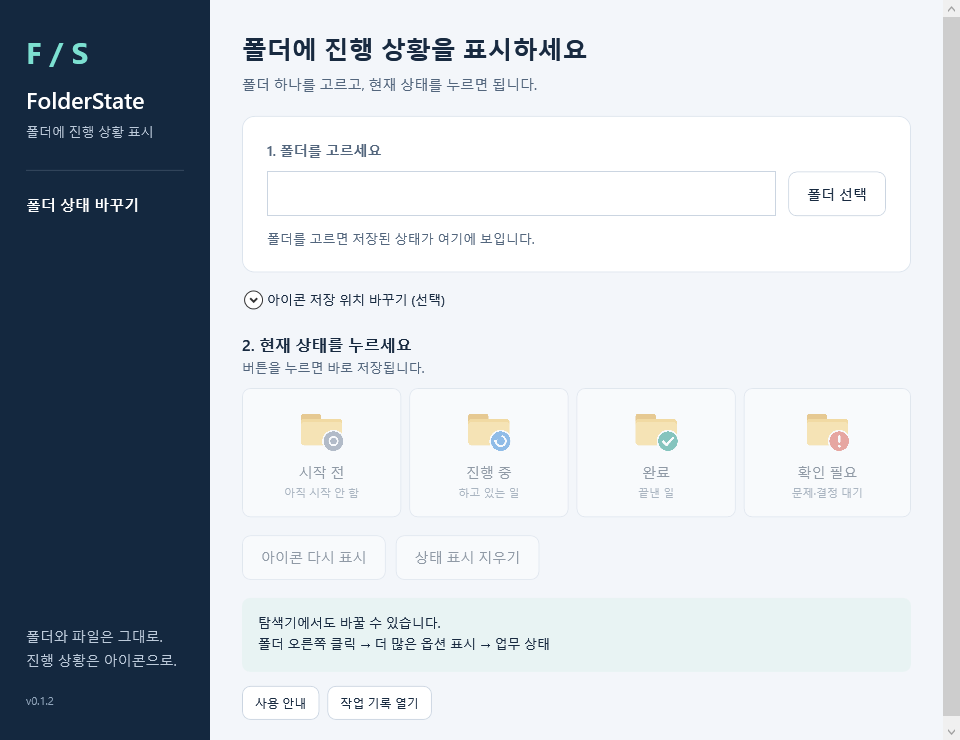
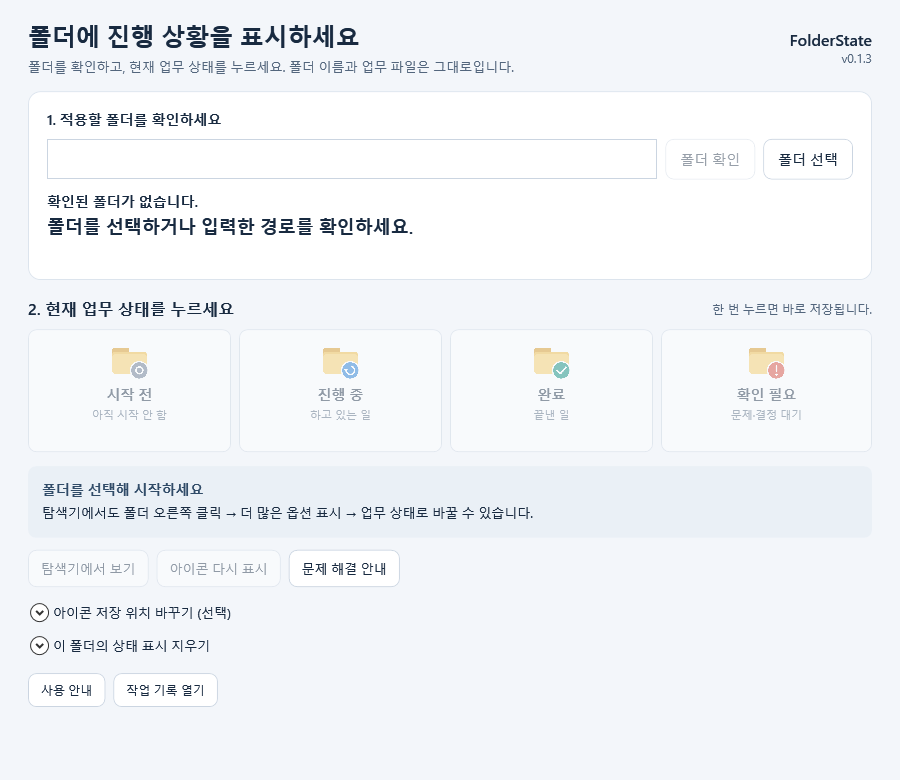
Publish current tool guides and organize release records
Align FolderState 0.1.3 RC1 and Excel RC10 downloads, usage guidance and verification records. Preserve original Excel inputs in an archive and keep generated test copies out of Git.

diff --git a/tools/ExcelSmartListCompare/docs/CODEX_HANDOFF.md b/tools/ExcelSmartListCompare/docs/CODEX_HANDOFF.md
@@ -1,44 +1,29 @@
 # Windows 빌드·실기 검증 인계
 
-상태: RC9 소스 보완·재검증 진행, 출시 보류 · 2026-09-17. [RC9 안정성 기록](RC9_STABILITY_REPORT.md)에 새 변경·실행 결과·남은 조건을 기록한다. [RC8 검증 기록](RC8_COMPLETION_REPORT.md)은 과거 바이너리의 실패 증거로 보존한다. 오류·취소 신호 주입 PASS는 실제 키 입력 취소 PASS가 아니다.
+상태: **RC10 게시 완료 · 전체 인수 NOT_MET 유지** · 2026-09-20
 
-## RC9 재개 순서
+## 현재 기준
 
-1. 현재 작업 저장소는 바깥 `Workspace`다. 안쪽의 `ExcelE2E-20260914/upstream`은 이전 시험 기록으로 남아 있으므로 새 소스와 혼동하지 않는다.
-2. `tests/Invoke-BoundedTest.ps1`로 시험을 하나씩 실행한다. CPU·메모리 사전 기준 초과나 기존 Excel이 있으면 시작하지 않는다. 원시 로그는 로컬에만 둔다.
-3. 새 XLAM 제작 전 개발용 VBA 접근 승인 또는 이미 허용된 개발 환경을 확인한다. 제품 사용자의 매크로 보안은 바꾸지 않는다.
-4. 새 바이너리를 설치한 소유 Excel에서 기존 통합 검사와 `windows-cancellation-transaction.ps1`을 실행한다. 후자는 메모리 안에서만 계측하고 소스·Saved 상태·파일 해시를 복원한다.
-5. `windows-public-matrix.ps1`은 각 경우 직후 원본·이전 결과를 닫도록 바뀌었다. 동시 문서 상한과 셀 주소를 실제로 확인한다.
-6. 실제 메뉴·Esc와 대화형 설치는 화면 조작 도구가 있는 세션에서 새 파일로 확인한다. 입력 도구 호출 시간만으로 키 수신을 주장하지 않는다.
-7. RC9 포장은 `--installer-version 0.2.0-rc.9`, 단일 EXE는 `--engine-version 0.2.0-rc.9`를 명시한다. 새 `RC9-Payload.json`은 실제 후보를 제작·대조한 뒤 작성한다. RC8 고정 입력을 덮어쓰지 않는다. 실제 취소 PASS 요구는 유지한다.
+- 제품 안내: [RC10 설치·사용](RC10_USER_GUIDE.md)
+- 배포 파일·해시·게시 확인: [RC10 게시 기록](RC10_PUBLICATION_20260920.md)
+- 실제 기능·화면 시험: [사용성 검증](USABILITY_RC10_REPORT.md)
+- 설치·재시작·복원·취소의 판정: [전체 흐름 기록](RC10_END_TO_END_REPORT.md)
+- 배포 결정: [ADR-0017](ADR-0017-RC10-publication.md), [고정한 검증 요약](../evidence/rc10/validation.json)
 
-## 후속 문구 교정 · 2026-09-17
+현재 소스는 이 저장소의 tools/ExcelSmartListCompare/src입니다. 로컬 ExcelE2E-* 폴더는 과거 시험 사본이며 현재 유지보수 소스가 아닙니다. 처음 받은 지시와 소스 ZIP은 [원본 보존 폴더](../archive/README.md)에 있습니다.
 
-Excel 화면·결과표·사용 안내와 설치·제거 문장을 한국어로 다듬었습니다. 표시용 문자열과 결과표 두 행의 높이를 바꾸었으며 비교·설치 기능은 유지합니다. 새 소스의 Python 검사와 설치기 컴파일 확인은 [문구 검수 기록](KOREAN_WORDING_REVIEW.md)을 따릅니다. **새 XLAM과 배포용 EXE는 만들지 않았습니다.** `RC8-Payload.json`과 기존 시험 파일도 갱신하지 않았습니다. 현재 소스와 과거 고정 입력의 해시가 달라지는 것은 의도된 상태이며, 새 파일을 제작·실행 검증하기 전에 고정 해시만 바꾸면 안 됩니다.
+RC10의 XLAM은 실제 기능·UI 시험과 대조한 고정 파일입니다. 사용자 설치 패키지, 개발 소스, 검증 자료를 분리해 게시했습니다. 게시 성공을 설치 수명주기·실제 처리 중 취소·상태표시줄 형식 복원의 통과로 해석하지 않습니다. RC8·RC9의 기록은 당시 파일의 근거로 보존합니다.
 
-결과 요약의 `목록 남은 항목` 등 새 문구에 맞춰 실행 검사의 기대값을 바꿨지만 해당 Excel 검사를 이번에 실행한 것은 아닙니다. 승인된 개발 환경에서 XLAM 제작 후 결과표·안내 창의 줄바꿈과 실제 취소·설치·제거 검사를 이어가세요.
+## 후속 작업 순서
 
-## 변경과 근거
+1. [제품 명세](../../../docs/tools/excel-list-compare/specification.md), [인수 기준](ACCEPTANCE_TESTS.md), 최신 검증 판정을 읽고 이번에 확인할 조건을 고릅니다.
+2. UTF-8 VBA를 수정했다면 export_ascii.py로 가져오기용 소스를 동기화하고 Python 회귀를 실행합니다. 정적 검사와 실제 Excel 검사는 별도로 기록합니다.
+3. 새로운 XLAM을 제작할 때는 이미 허용된 개발 환경 또는 별도로 승인된 개발 권한을 사용합니다. 제품 사용자의 보안 설정을 바꾸지 않습니다.
+4. 시험 대상 해시를 고정하고 직렬화 VBA·RibbonX를 소스와 대조합니다. 동일 바이트로 기능·표시·취소·수명주기를 확인합니다.
+5. Invoke-IsolatedExcelCandidate.ps1의 소유 프로세스·자원·기존 설치 사전 검사를 따릅니다. 사용자 Excel이나 문서를 종료하지 않으며 원시 기록은 artifacts 아래에만 둡니다.
+6. 아직 확인하지 못한 실제 처리 중 취소, 상태표시줄 형식 복원, 단일 EXE·새 설치 수명주기는 결과를 확인한 뒤에만 판정을 갱신합니다. 도구 실패와 제품 실패, 소유 프로세스 정리와 정상 종료를 구분합니다.
+7. 새 파일은 RC10의 고정 입력·배포 자산을 덮어쓰지 않고 새 버전·별도 경로로 제작합니다. 사용자 안내와 검증 자료를 나누고 소스·파일 해시·실행 결과·게시 결정을 연결합니다.
 
-RC7의 메뉴 구성은 유지한다. `getContent`는 메뉴를 열 때마다 현재 첫 번째 목록으로 내용을 만든다. RC8은 [실제 실패 기록](UNLOCKED_UI_REPORT.md)에 따라 오류 18 전달, 체크포인트의 취소 처리 재설정, 기본 상태표시줄 복원과 설치 폴더 CMD 제거 실행을 보완했다. [ADR-0010](ADR-0010-Cancellation-and-removal.md)에 근거와 한계를 기록한다. 최초 GUI 제거 접근 거부는 재현되지 않았으며 원인이 확정된 것으로 표시하지 않는다.
+## 확인 범위
 
-- 선택 전체를 한 목록으로 담고 다음 선택을 비교한다. 가시 값·중복 개수·텍스트 앞자리 0을 보존하며 원본과 이전 결과를 덮어쓰지 않는다.
-- 같은 Excel 프로세스의 메모리 스냅샷을 공유한다. 모드 선택·두 열 자동 분할·전역 단축키·상주 프로세스를 추가하지 않는다.
-- 설치 엔진은 Excel을 시작하지 않고 자기 LocalAppData 파일과 HKCU 등록을 관리한다. 조직 정책·AllSigned·외부 파일·알 수 없는 설치 기록은 보존한다.
-- 설치 폴더의 CMD는 새 임시 복사본으로 실행 제어를 넘겨 자기 삭제 후에도 엔진 종료 코드를 반환한다. 복사본에는 업무 데이터가 없으며 TEMP에 남을 수 있다.
-
-## 재검증 절차
-
-1. 원래 명세, README, [추가 도구 개발 기준](../../../docs/policies/tools.md), 관련 ADR을 읽는다.
-2. VBA UTF-8 소스를 수정하고 `python tools/ExcelSmartListCompare/tests/export_ascii.py`로 ASCII 가져오기 파일을 동기화한다.
-3. Python 참조·실행기 검사와 실제 Excel 검사를 구분한다. `windows-context-menu-content.ps1`은 정상 시작, 8종 메뉴 내용, 창 전환과 비교를 검사하지만 실제 메뉴 클릭 증거가 아니다.
-4. 승인된 개발 환경에서만 XLAM을 제작한다. 임시 VBA 접근 허용이 승인된 경우에도 Excel 종료 후 시작 전 상태를 확인한다. 설치 사용자에게 VBA 프로젝트 접근을 요구하지 않는다.
-5. 실제 저장 파일의 VBA·RibbonX를 원본과 대조하고 같은 해시로 취소·자동 로드·재설치·제거를 검증한다. `windows-cancellation-propagation.ps1`과 `windows-status-checkpoint.ps1`은 소유한 개발 Excel 세션에서 메모리 안에만 검사 코드를 넣으며, 호스트가 원문·개발 권한·종료 후 파일 해시를 확인해야 한다.
-6. `windows-onefile.ps1`은 설치·실패 복구·업데이트·제거·특수 경로·설치 폴더 CMD 자기 삭제를 검증한다. 기존 설치나 Excel이 있으면 실행하지 않는다. 시험 호스트 충돌과 제품 오류를 구분하고 분할 실행 시 그 사실을 기록한다.
-7. 설치기 함수의 격리 회귀 23개와 신뢰 위치 23개는 실제 설치 수명주기와 별도로 기록한다. 업무 Excel을 강제 종료하지 않는다. 빌드 소유 프로세스만 별도 정리했다면 정상 종료로 바꾸어 기록하지 않는다.
-8. RC8 포장은 `package-excel-wording-release.py --installer-version 0.2.0-rc.8`을 사용한다. 5개 VBA와 XML의 소스 해시, 설치기 해시와 실제 메뉴·취소 PASS가 필요하다. EXE는 `RC8-Payload.json`으로 입력을 고정한다. 최종 배포 후보는 실제 시험한 바이트여야 한다.
-9. 문서 strict 빌드·생성 링크·ZIP 무결성을 확인한다. 사용자 경로·계정·레지스트리와 원시 진단은 로컬에 두고 공개 요약만 포장한다. 현재 작업은 로컬 결과물 제공이며 공개 게시 여부를 혼동하지 않는다.
-
-## 별도 인수
-
-다른 Office 빌드·x86, 물리 키보드 직접 입력·Ctrl+Break, 조직 배포, 전원 손실, 모든 추가 기능의 공존과 코드 서명은 별도다. 상태표시줄의 문자열 `FALSE`는 Excel 기본 False 표식으로 취급한다. 이벤트 비활성 시 기존 도구 모음 갱신 한계와 이전 실패 기록을 보존한다. 실행하지 않은 검사는 PASS로 표시하지 않는다.
+다른 Office 빌드·x86, 모든 추가 기능과의 공존, 조직 배포, 전원 손실과 코드 서명은 별도입니다. 과거 실패와 미실행 기록은 그대로 보존하고, 새 결과가 어느 파일과 환경에 해당하는지 적습니다.

diff --git a/docs/tools/folderstate/index.md b/docs/tools/folderstate/index.md
@@ -1,6 +1,6 @@
 # FolderState 사용 안내
 
-**폴더를 고르고 현재 상태를 누르세요.** 폴더 아이콘으로 진행 상황을 표시합니다. 폴더 이름과 업무 파일은 그대로입니다.
+**FolderState 0.1.3 RC1** · 폴더를 확인하고 현재 업무 상태를 누르세요. 폴더 아이콘으로 진행 상황을 표시하며 폴더 이름과 업무 파일은 그대로 둡니다.
 
 | 누를 상태 | 이런 때 고르세요 | 아이콘 |
 |---|---|---|
@@ -13,15 +13,21 @@
 
 ## 처음 사용하기
 
-1. [설치 안내](installation.md)에 따라 FolderState를 설치합니다.
-2. Windows 시작 메뉴에서 **FolderState**를 엽니다.
-3. **폴더 선택**을 눌러 진행 상황을 표시할 폴더 하나를 고릅니다.
+1. [설치 안내](installation.md)에 따라 FolderState를 설치하고 시작 메뉴에서 엽니다.
+2. **폴더 선택**을 눌러 폴더 하나를 고릅니다. 전체 경로를 직접 입력했다면 **폴더 확인** 또는 **Enter**를 누릅니다.
+3. 표시된 폴더명·전체 경로·현재 상태를 확인합니다.
 4. **시작 전 / 진행 중 / 완료 / 확인 필요** 중 하나를 누릅니다. 바로 저장됩니다.
-5. 탐색기에서 아이콘을 확인합니다. 아직 안 바뀌면 **F5**를 누르거나 폴더 창을 다시 엽니다.
+5. 결과에 표시된 대상과 완료·주의·실패 안내를 읽습니다. **탐색기에서 보기**로 폴더를 열어 아이콘을 확인합니다. 아직 안 바뀌면 **F5**를 누릅니다.
 
-![FolderState 화면: 폴더를 고르고 현재 상태를 누르는 두 단계](../../assets/folderstate.png)
+![FolderState 0.1.3 관리 화면: 폴더 확인, 상태 선택, 결과 안내와 별도 아이콘 위치 적용](../../assets/folderstate.png)
 
-폴더 위치를 이미 알고 있으면 입력란에 전체 경로를 붙여 넣고 **Enter**를 눌러도 됩니다.
+## 폴더 확인과 작업 결과 {#next-ui}
+
+경로를 편집하면 이전 폴더의 상태와 결과가 지워집니다. 새 폴더를 확인하기 전까지 상태를 바꿀 수 없습니다. **폴더 확인**은 같은 폴더의 최신 상태를 다시 읽을 때도 사용합니다.
+
+현재 저장된 상태는 카드의 **현재 저장된 상태** 표시로 확인합니다. 상태 변경 시각과 저장된 아이콘 위치도 함께 보여 줍니다. 상태가 없는 폴더에서는 먼저 상태를 지정하세요. 아이콘 복구와 상태 지우기는 저장된 상태가 있을 때 사용할 수 있습니다.
+
+저장은 완료됐지만 상태를 다시 읽지 못한 경우에는 저장 결과와 추가 확인 안내를 구분해 표시합니다. 이전 작업이 도중에 멈췄다는 안내가 나오면 **아이콘 다시 표시**로 복구합니다. 도움이 필요하면 **문제 해결 안내**를 누른 뒤 도움말의 **오류 해결**을 확인하세요.
 
 ## 탐색기에서 바로 바꾸기
 
@@ -36,12 +42,12 @@
 | 하고 싶은 일 | 누를 버튼 | 결과 |
 |---|---|---|
 | 아직 시작하지 않은 일로 표시 | **시작 전** | ‘시작 전’ 상태를 저장합니다. |
-| 이 폴더에서 상태 표시를 없애기 | **상태 표시 지우기** | 저장된 상태를 지우고 이전 아이콘 설정으로 되돌립니다. FolderState 밖에서 바뀐 설정은 그대로 둡니다. |
+| 이 폴더에서 상태 표시를 없애기 | **이 폴더의 상태 표시 지우기**를 펼친 뒤 **상태 표시 지우기** | 저장된 상태를 지우고 이전 아이콘 설정으로 되돌립니다. FolderState 밖에서 바뀐 설정은 그대로 둡니다. |
 | 저장된 상태의 아이콘 다시 보기 | **아이콘 다시 표시** | 저장된 상태에 맞게 아이콘을 다시 설정합니다. 상태와 마지막 변경 시각은 그대로입니다. |
 
-**‘시작 전’과 ‘상태 표시 지우기’는 다릅니다.** 일을 다시 시작하려면 ‘시작 전’을 고르세요. 상태 표시 자체가 필요 없어졌을 때 ‘상태 표시 지우기’를 누릅니다.
+**‘시작 전’과 ‘상태 표시 지우기’는 다릅니다.** 일을 다시 시작하려면 ‘시작 전’을 고르세요. 상태 표시 자체가 필요 없어졌을 때 설명을 확인하고 지웁니다.
 
-예전 화면에서는 ‘시작 전’을 **미착수**, ‘확인 필요’를 **이슈**, ‘상태 표시 지우기’를 **상태 초기화**, ‘아이콘 다시 표시’를 **상태 아이콘 복구**로 표시합니다. 같은 기능입니다.
+예전 화면에서는 ‘시작 전’을 **미착수**, ‘확인 필요’를 **이슈**, ‘상태 표시 지우기’를 **상태 초기화**, ‘아이콘 다시 표시’를 **상태 아이콘 복구**로 표시합니다.
 
 ## 다른 PC로 폴더를 옮길 때
 
@@ -49,10 +55,12 @@
 
 아이콘 파일을 폴더와 함께 복사하려면 다음과 같이 설정합니다.
 
-1. FolderState에서 폴더를 고릅니다.
+1. FolderState에서 상태가 저장된 폴더를 확인합니다. 처음 쓰는 폴더라면 먼저 상태를 지정합니다.
 2. **아이콘 저장 위치 바꾸기 (선택)**을 펼칩니다.
 3. **선택한 폴더 안**을 고릅니다.
-4. 현재 상태 버튼을 누릅니다. 이때 저장 위치도 함께 적용됩니다.
+4. **아이콘 저장 위치 적용**을 누릅니다. 상태와 마지막 상태 변경 시각은 유지됩니다.
+
+위치를 선택한 것만으로는 저장되지 않습니다. 상태 버튼을 눌러도 새 위치가 적용되지는 않습니다. 상태 저장·폴더 확인 후에는 선택 표시가 저장된 위치로 돌아오므로, 위치를 바꾸려면 다시 골라 **아이콘 저장 위치 적용**을 누르세요.
 
 아이콘 파일을 함께 옮겨도 공유 폴더, 동기화 프로그램, 회사 보안 설정에 따라 표시가 달라질 수 있습니다.
 

diff --git a/README.md b/README.md
@@ -17,25 +17,25 @@
 
 | 프로그램 | 설치 파일 | 확인할 내용 |
 |---|---|---|
-| FolderState 0.1.2 RC1 | [Windows x64 설치 파일 (MSI)](https://github.com/prozac0401/Workspace/releases/download/folderstate-v0.1.2-rc.1/FolderState-0.1.2-win-x64.msi) · [배포 페이지](https://github.com/prozac0401/Workspace/releases/tag/folderstate-v0.1.2-rc.1) | [설치·업데이트·제거](docs/tools/folderstate/installation.md) |
+| FolderState 0.1.3 RC1 | [Windows x64 설치 파일 (MSI)](https://github.com/prozac0401/Workspace/releases/download/folderstate-v0.1.3-rc.1/FolderState-0.1.3-win-x64.msi) · [배포 페이지](https://github.com/prozac0401/Workspace/releases/tag/folderstate-v0.1.3-rc.1) | [설치·업데이트·제거](docs/tools/folderstate/installation.md) |
 | Excel 명단 비교 0.2.0 RC10 | [Windows 설치 파일 (EXE)](https://github.com/prozac0401/Workspace/releases/download/excel-smart-list-compare-v0.2.0-rc.10/ExcelSmartListCompare-0.2.0-rc.10-Setup.exe) · [ZIP·배포 자료](https://github.com/prozac0401/Workspace/releases/tag/excel-smart-list-compare-v0.2.0-rc.10) | [설치·사용 안내](docs/tools/excel-list-compare/index.md) |
 
 Excel RC10은 담은 목록 확인, 첫 목록 재사용, 요약과 상세 결과 시트를 제공합니다. 설치 안내와 검증 자료는 분리해 제공합니다. 실제 확인 범위는 [RC10 검증 기록](tools/ExcelSmartListCompare/docs/USABILITY_RC10_REPORT.md)을 따릅니다. 두 프로그램의 설치 파일에는 코드 서명이 없습니다.
 
-이전 배포와 확인 자료: [FolderState 0.1.0 RC1](https://github.com/prozac0401/Workspace/releases/tag/folderstate-v0.1.0-rc.1) · [FolderState 캡처 퀵가이드](docs/tools/folderstate/quick-guide.md) · [Excel RC7 단일 EXE 배포](https://github.com/prozac0401/Workspace/releases/tag/excel-smart-list-compare-v0.2.0-rc.7-setup.1) · [Excel 퀵가이드](tools/ExcelSmartListCompare/docs/QUICK_GUIDE.md) · [RC7 검증과 제한](tools/ExcelSmartListCompare/docs/CONTEXT_MENU_REPORT.md) · [EXE 검증 기록](tools/ExcelSmartListCompare/docs/ONEFILE_REPORT.md)
+현재 배포·검증 결과와 과거 기록은 [배포·검증 안내](docs/delivery/index.md)에서 구분해 확인하세요.
 
 ## 개발자가 프로그램을 만드는 방법
 
-FolderState는 C# / .NET 10 / WPF로 만들었습니다. 아래 명령은 Windows 11 x64에서 실행합니다. .NET SDK 버전은 `global.json`을 따릅니다. 두 도구의 확인 범위는 [실제 검증·복구·지원 제한](docs/delivery/tools-release-20260914.md)을 참고하세요.
+FolderState는 C# / .NET 10 / WPF로 만들었습니다. 아래 명령은 Windows 11 x64에서 실행합니다. .NET SDK 버전은 `global.json`을 따릅니다. 두 도구의 현재 확인 범위는 [배포·검증 안내](docs/delivery/index.md)를 참고하세요.
 
 ```powershell
 dotnet run --project tests/FolderState.Tests -c Release
 powershell -NoProfile -File scripts/build.ps1
 ```
 
-설치 파일은 `artifacts/release/FolderState-0.1.2-win-x64.msi`에 만들어집니다. 파일이 바뀌었는지 확인하는 SHA-256 파일도 함께 생성합니다. 설치 파일에 실행에 필요한 .NET이 포함되어 있어 사용자 PC에 따로 설치할 필요가 없습니다. 현재 Windows 사용자 계정에 설치됩니다.
+설치 파일은 `artifacts/release/FolderState-0.1.3-win-x64.msi`에 만들어집니다. 파일이 바뀌었는지 확인하는 SHA-256 파일도 함께 생성합니다. 설치 파일에 실행에 필요한 .NET이 포함되어 있어 사용자 PC에 따로 설치할 필요가 없습니다. 현재 Windows 사용자 계정에 설치됩니다.
 
-Excel 추가 기능과 설치 프로그램의 제작 방법은 [별도 도구 안내](tools/ExcelSmartListCompare/README.md)와 [EXE 설치·제거 안내](tools/ExcelSmartListCompare/docs/ONEFILE_INSTALLATION.md)에 있습니다. 새 소스, 실제 검증한 XLAM, 공개된 설치 파일을 구분합니다.
+Excel 추가 기능과 설치 프로그램의 제작 방법은 [별도 도구 안내](tools/ExcelSmartListCompare/README.md)와 [RC10 설치·사용 안내](tools/ExcelSmartListCompare/docs/RC10_USER_GUIDE.md)에 있습니다. 새 소스, 실제 검증한 XLAM, 공개된 설치 파일을 구분합니다.
 
 문서 사이트를 확인하려면 다음 명령을 실행하세요.
 
@@ -54,8 +54,10 @@ tests/        실제 Windows 파일시스템 통합 테스트
 installer/    사용자별 MSI 정의
 tools/        Excel 명단 비교 등 별도 도구
 scripts/      빌드·검증 스크립트
-docs/         GitHub Pages 문서 원본
+docs/         공개 안내와 개발·배포 문서 원본
 assets/       다중 해상도 상태 아이콘
 ```
 
-현재 버전은 검증용입니다. 배포 단계와 확인 결과는 [품질 기준](docs/delivery/quality.md), [검증 기록](docs/delivery/verification.md)에서 확인하세요. 제작자를 확인하는 코드 서명과 새 PC에서의 설치·업데이트·제거 검증이 끝나기 전에는 상용 정식판으로 분류하지 않습니다.
+Excel 최초 입력 자료는 [원본 보존 폴더](tools/ExcelSmartListCompare/archive/README.md)에 있습니다. 생성물은 artifacts/, bin/, obj/, site/에 두고 Git에 포함하지 않습니다. 이전 로컬 ExcelE2E-* 시험 폴더도 추적하지 않습니다.
+
+배포 단계와 확인 결과는 [품질 기준](docs/delivery/quality.md), [검증 기록](docs/delivery/verification.md)에서 확인하세요. 제작자를 확인하는 코드 서명과 새 PC에서의 설치·업데이트·제거 검증이 끝나기 전에는 상용 정식판으로 분류하지 않습니다.

diff --git a/docs/delivery/releases-20260920.md b/docs/delivery/releases-20260920.md
@@ -1,0 +1,46 @@
+# FolderState 릴리스와 두 도구 안내 정리 · 2026-09-20
+
+상태: FolderState 0.1.3 RC1 게시 완료 · 문서와 저장소 정리 로컬 검증 완료 · Pages 게시 대기
+
+## FolderState 0.1.3 RC1
+
+[공개 릴리스](https://github.com/prozac0401/Workspace/releases/tag/folderstate-v0.1.3-rc.1)는 소스 커밋 [e4e457e](https://github.com/prozac0401/Workspace/commit/e4e457ebab884222407cc2e8bc3473bb23d4fe4f)을 기준으로 합니다. 이 커밋을 main에 반영한 뒤 [Windows 빌드](https://github.com/prozac0401/Workspace/actions/runs/35474595978)가 성공한 산출물을 게시했습니다. 2026-09-19의 로컬 평가 MSI와는 별도 빌드이며, 아래 해시가 공개 파일의 기준입니다.
+
+- 공개 시각: 2026-09-19T23:01:10Z
+- 파일: FolderState-0.1.3-win-x64.msi
+- 크기: 50,465,413바이트
[1 lines of base64/hex data omitted]
+- 엔진 47/47, WPF 상호작용 12/12 및 렌더 통과
+- MSI 구성 검사: 버전 0.1.3, 파일 414개, 메뉴 명령 6개, 사용자별 설치, HKCU 전용
+- 서명: NotSigned · 사전 릴리스 · 상용 승인 아님
+
+MSI, SHA-256 파일, 공개 검증 요약의 세 자산을 다시 내려받아 업로드된 SHA-256과 일치함을 확인했습니다. [게시 증거](evidence/folderstate-0.1.3-rc.1.json)에 버전·소스·CI·자산 정보를 기록했습니다. 원시 사용자 로그와 로컬 진단은 게시 자산에 포함하지 않았습니다.
+
+이 MSI의 실제 설치·복구·업데이트·제거, .NET이 없는 새 Windows 11 PC, 키보드·Narrator·고대비·150/200% DPI, 공유·동기화·보안 환경은 추가 검증 대상입니다. CI의 windows-2025 시험을 Windows 11 사용자 환경의 설치 수명주기 시험으로 바꾸어 표시하지 않습니다.
+
+## Excel RC10와 문서
+
+이미 공개된 [Excel 명단 비교 RC10](https://github.com/prozac0401/Workspace/releases/tag/excel-smart-list-compare-v0.2.0-rc.10)의 원격 변경 두 커밋을 가져왔습니다. 비교 기능과 실제 배포 자산을 다시 변경하지 않았습니다. [RC10 게시 기록](../../tools/ExcelSmartListCompare/docs/RC10_PUBLICATION_20260920.md), [전체 흐름 판정](../../tools/ExcelSmartListCompare/docs/RC10_END_TO_END_REPORT.md)의 기존 결과를 유지합니다.
+
[1 lines of base64/hex data omitted]
+
+루트 README·홈페이지·도구별 안내가 FolderState 0.1.3 RC1과 Excel RC10을 가리키도록 맞췄습니다. FolderState의 이전 화면과 ‘다음 버전’ 설명을 현재 사용 순서로 교체하고 0.1.3 WPF 화면을 다시 렌더했습니다. Excel의 개발 인계 안내도 RC10 기준으로 갱신했습니다.
+
+## 저장소 정리
+
+- 작업 중 변경을 임시 보관한 뒤 main을 원격 최신 커밋으로 fast-forward했습니다. 이미 원격에 반영된 Excel 변경과 이전 게시 준비 문구를 중복 반영하지 않고 FolderState 변경을 보존했습니다.
+- 루트의 최초 Excel 검증 지시와 v0.2 소스 ZIP을 tools/ExcelSmartListCompare/archive로 옮겼습니다. 두 파일의 원본 내용은 유지하고 관련 문서 링크를 갱신했습니다.
+- 현재 버전과 과거 증거를 찾는 [배포·검증 안내](index.md)를 추가했습니다. 원문 명세와 과거 실패 기록은 보존했습니다.
+- 로컬 ExcelE2E-* 사본을 공통 .gitignore에 명시했습니다. 생성 디렉터리·사용자 기록·인증서는 Git에 추가하지 않았습니다. 이전 로컬 시험 자료를 삭제하지 않았습니다.
+- Windows CI에 MSI 구성 검사를 추가했습니다. 검사 결과도 빌드 산출물과 함께 보관합니다.
+
+## 로컬 검증
+
+- MkDocs strict 빌드 통과. 공개 페이지 15개와 404, 검색·사이트맵의 공개 범위, 생성된 로컬 경로·자산 연결을 확인했습니다.
+- 변경한 Markdown의 로컬 연결 236개가 유효하며, 이동한 최초 자료 2개의 내용이 원본과 일치합니다. 생성 디렉터리·인증서·환경 파일은 추적 대상에 추가되지 않았습니다. git diff --check도 통과했습니다.
+- Excel Python 회귀·실행기 시험은 172/172 통과했습니다. 이 실행은 설치된 RC10의 실제 Excel 조작·취소·설치 수명주기 검증을 대신하지 않습니다.
+- 최초 Excel 검사에는 markdown 모듈 경로 누락 7건과 실행 중 새 Excel 프로세스를 감지한 보호 중단 1건이 있었고 1건을 건너뛰었습니다. .tools/doc-deps를 Python 경로에 추가한 전체 재실행에서 172건이 통과했습니다. 소유하지 않은 Excel 프로세스를 종료하거나 제품 소스를 바꾸지 않았으며 첫 실패 기록도 로컬에 보존했습니다.
+
+## 문서 게시 검증
+
+GitHub Pages 배포·실제 URL 확인 결과는 게시 완료 후 아래에 추가합니다.

diff --git a/docs/tools/folderstate/installation.md b/docs/tools/folderstate/installation.md
@@ -2,10 +2,12 @@
 
 **Windows 11 x64 PC용 프로그램입니다.** 폴더 아이콘으로 업무 진행 상태를 표시합니다.
 
-[FolderState 0.1.2 RC1 설치 파일 받기](https://github.com/prozac0401/Workspace/releases/download/folderstate-v0.1.2-rc.1/FolderState-0.1.2-win-x64.msi){ .md-button .md-button--primary }
-[배포 내용 확인](https://github.com/prozac0401/Workspace/releases/tag/folderstate-v0.1.2-rc.1){ .md-button }
+[FolderState 0.1.3 RC1 설치 파일 받기](https://github.com/prozac0401/Workspace/releases/download/folderstate-v0.1.3-rc.1/FolderState-0.1.3-win-x64.msi){ .md-button .md-button--primary }
+[배포 내용 확인](https://github.com/prozac0401/Workspace/releases/tag/folderstate-v0.1.3-rc.1){ .md-button }
 
-파일 이름: `FolderState-0.1.2-win-x64.msi` · 시험용 버전 · 코드 서명 없음
+파일 이름: `FolderState-0.1.3-win-x64.msi` · 시험용 버전 · 코드 서명 없음
+
+0.1.3 RC1에는 **폴더 확인**, 현재 상태 강조, 대상별 결과 안내와 별도의 **아이콘 저장 위치 적용**이 포함됩니다. [현재 화면의 사용 순서](index.md)를 확인하세요. [SHA-256 파일](https://github.com/prozac0401/Workspace/releases/download/folderstate-v0.1.3-rc.1/FolderState-0.1.3-win-x64.msi.sha256)로 내려받은 파일을 확인할 수 있습니다.
 
 ## 설치 전에 확인하세요
 
@@ -13,13 +15,13 @@
 
 네트워크 공유 폴더, 동기화 폴더, 회사 보안 프로그램이 관리하는 폴더에서는 동작을 충분히 확인하지 못했습니다.
 
-0.1.2 RC1은 아직 상용 배포 승인을 받지 않은 **시험용 버전**입니다. 설치 파일에는 제작자를 확인할 수 있는 전자 서명이 없습니다. 제작자 표시와 지원 방법도 아직 정해지지 않았습니다. FolderState를 설치한 적 없는 다른 PC에서 설치부터 복구, 제거까지 확인하는 시험도 남아 있습니다.
+0.1.3 RC1은 아직 상용 배포 승인을 받지 않은 **시험용 버전**입니다. 설치 파일에는 제작자를 확인할 수 있는 전자 서명이 없습니다. 제작자 표시와 지원 방법도 아직 정해지지 않았습니다. FolderState를 설치한 적 없는 다른 PC에서 설치부터 복구, 제거까지 확인하는 시험도 남아 있습니다.
 
 회사 PC에서는 사용해도 되는지 확인한 뒤 시험용 폴더에서 시작하세요. 보안 경고가 나오면 회사 담당자에게 확인하세요. 보안 설정을 끄고 설치하지 마세요.
 
 ## 설치하기
 
-1. 위에서 설치 파일 `FolderState-0.1.2-win-x64.msi`를 받습니다.
+1. 위에서 설치 파일 `FolderState-0.1.3-win-x64.msi`를 받습니다.
 2. 파일을 열고 **설치**를 누릅니다. 지금 로그인한 Windows 계정에만 설치됩니다. 관리자 권한은 필요하지 않습니다.
 3. 시험용 폴더 하나를 마우스 오른쪽 버튼으로 클릭합니다.
 4. **더 많은 옵션 표시 → 업무 상태**에서 원하는 상태를 고릅니다. [상태별 뜻](index.md)을 참고하세요.
@@ -68,9 +70,9 @@
 설치 화면 대신 명령으로 처리할 때만 사용합니다. `/qn`은 화면을 표시하지 않는 옵션입니다.
 
 ```powershell
-msiexec /i "FolderState-0.1.2-win-x64.msi" /qn /norestart /l*v install.log
-msiexec /fa "FolderState-0.1.2-win-x64.msi" /qn /norestart /l*v repair.log
-msiexec /x "FolderState-0.1.2-win-x64.msi" /qn /norestart /l*v uninstall.log
+msiexec /i "FolderState-0.1.3-win-x64.msi" /qn /norestart /l*v install.log
+msiexec /fa "FolderState-0.1.3-win-x64.msi" /qn /norestart /l*v repair.log
+msiexec /x "FolderState-0.1.3-win-x64.msi" /qn /norestart /l*v uninstall.log
 ```
 
 위 명령은 순서대로 설치, 프로그램 복구, 프로그램 제거입니다. 필요한 명령 하나만 실행하세요. 종료 코드가 `0`이면 작업을 마친 것이고, `3010`이면 PC를 다시 시작해야 합니다. 다른 코드가 나오면 해당 설치 기록 파일을 확인하세요. 기록을 외부에 보낼 때는 사용자 이름이나 업무 폴더 경로가 들어 있는지 확인하고 가려 주세요.

diff --git a/docs/tools/folderstate/troubleshooting.md b/docs/tools/folderstate/troubleshooting.md
@@ -12,6 +12,18 @@
 
 탐색기 목록의 아이콘은 바뀌었는데 오른쪽 **세부 정보**에만 이전 아이콘이 보이면 다른 항목을 선택했다가 돌아와 보세요. 0.1.1 시험에서도 이 미리보기 지연이 있었습니다. 경로가 260자 이상이면 Windows의 표시 처리 제한으로 갱신이 늦어질 수 있습니다.
 
+## 버튼을 누를 수 없어요
+
+이 절은 **FolderState 0.1.3 RC1** 화면 기준입니다. 이전 버전을 사용한다면 [설치 안내](installation.md)에서 새 버전을 확인하세요.
+
+- 경로를 입력하거나 바꿨다면 **폴더 확인** 또는 **Enter**를 먼저 누릅니다. 이전 폴더에 잘못 적용하지 않도록 확인 전에는 변경 버튼을 사용할 수 없습니다.
+- 상태가 없는 폴더에는 네 상태 중 하나를 먼저 저장합니다. 첫 상태는 **이 PC** 설정으로 저장됩니다. 그 뒤 아이콘 위치를 고르고 **아이콘 저장 위치 적용**을 누를 수 있습니다.
+- ‘이전 작업이 도중에 멈춤’ 안내가 나오면 **아이콘 다시 표시**를 누릅니다. 다른 읽기 오류라면 안내된 원인을 해결한 뒤 **폴더 확인**으로 다시 읽습니다.
+- 위치를 선택만 했다면 아직 저장되지 않은 것입니다. **아이콘 저장 위치 적용**을 누릅니다. 상태 버튼은 기존에 저장된 위치를 유지하며, 상태를 저장한 뒤 선택 표시도 저장된 위치로 돌아갑니다.
+- 저장 완료 뒤 상태를 다시 읽지 못했다는 안내가 함께 나올 수 있습니다. 저장 실패로 단정하지 말고 **폴더 확인**으로 현재 저장 상태를 다시 읽습니다.
+
+**문제 해결 안내** 버튼은 동봉된 사용 안내를 엽니다. 열린 도움말에서 **오류 해결**을 선택한 뒤 화면에 나온 안내와 비교하세요.
+
 ## 안내 문구에 따라 확인하세요
 
 **설정 파일이 손상되었거나 다른 곳에서 바뀌었다는 안내가 나오면 파일을 지우지 마세요.** 다시 실행해도 해결되지 않을 수 있습니다. `.folderstate.ini`, `desktop.ini`, `.folderstate-`로 시작하는 아이콘 파일, `.folderstate.transaction`은 상태 표시나 이전 상태로 되돌릴 때 쓰는 파일입니다.

diff --git a/docs/delivery/folderstate-usability-20260919.md b/docs/delivery/folderstate-usability-20260919.md
@@ -2,6 +2,8 @@
 
 제품: FolderState 0.1.3 로컬 후보 · 상태: 엔진·UI·문서·패키지 검사 완료, 평가용·미배포
 
+이 기록은 2026-09-19 로컬 후보의 결과입니다. 후속 CI 빌드와 0.1.3 RC1 공개 파일의 해시는 [2026-09-20 게시 기록](releases-20260920.md)을 따릅니다.
+
 ## 변경 범위
 
 관리 화면의 경로 입력과 확인한 대상을 분리하고, 폴더 전환 시 상태·아이콘 위치·결과를 함께 갱신했습니다. 상태 유무와 중단 복구 여부에 따라 작업 버튼을 구분하며, 결과에 대상과 성공·주의·실패를 표시합니다. 현재 상태 카드, 탐색기에서 보기, 별도의 아이콘 저장 위치 적용을 제공합니다. 지우기는 설명을 펼친 뒤 실행합니다.
@@ -51,4 +53,4 @@ WPF 상호작용 시험은 확인 전 적용 차단, 대상 전환과 빈 상태
 
 실제 초보 사용자, 키보드만으로 전체 흐름 완료, Narrator, 고대비, 150/200% DPI, 공유·동기화·보안 프로그램 환경은 이번에 검증하지 않았습니다. 중단 시험은 프로세스 종료이며 전원 손실 시험이 아닙니다. 설치·업데이트·복구·제거의 실제 수명주기 시험과 코드 서명은 별도입니다.
 
-현재 공개 설치 파일은 **0.1.2 RC1**이며 이번 변경을 포함하지 않습니다. 0.1.3은 서명되지 않은 로컬 평가용 후보이며 상용 승인 릴리스가 아닙니다. GitHub Release와 Pages에 게시하지 않았습니다. 여러 폴더 GUI 처리, 실행 취소, 탐색기 성공 알림, Windows 11 첫 메뉴 통합, 작업 기록 전용 화면은 후속 검토 대상입니다.
+이 기록 작성 당시 공개 설치 파일은 **0.1.2 RC1**이며 이번 변경을 포함하지 않습니다. 0.1.3은 서명되지 않은 로컬 평가용 후보이며 상용 승인 릴리스가 아닙니다. GitHub Release와 Pages에 게시하지 않았습니다. 여러 폴더 GUI 처리, 실행 취소, 탐색기 성공 알림, Windows 11 첫 메뉴 통합, 작업 기록 전용 화면은 후속 검토 대상입니다.

diff --git a/docs/delivery/index.md b/docs/delivery/index.md
@@ -1,0 +1,28 @@
+# 배포·검증 안내
+
+현재 설치 안내와 버전별 검증 결과를 구분합니다. GitHub Release의 태그와 파일 해시를 기준으로 확인하세요.
+
+## 현재 버전
+
+| 도구 | 설치·사용 안내 | 배포와 검증 기록 |
+|---|---|---|
+| FolderState 0.1.3 RC1 | [설치](../tools/folderstate/installation.md) · [사용](../tools/folderstate/index.md) | [2026-09-20 게시](releases-20260920.md) · [사용성 시험](folderstate-usability-20260919.md) |
+| Excel 명단 비교 0.2.0 RC10 | [설치·사용](../tools/excel-list-compare/index.md) | [RC10 게시](../../tools/ExcelSmartListCompare/docs/RC10_PUBLICATION_20260920.md) · [전체 흐름 판정](../../tools/ExcelSmartListCompare/docs/RC10_END_TO_END_REPORT.md) |
+
+두 설치 파일은 서명되지 않았습니다. FolderState는 사전 릴리스이며, Excel RC10은 기존 실패·부분 검증을 보존한 게시 결정입니다. 파일 게시와 상용 인수 승인을 구분합니다.
+
+## 개발·게시 절차
+
+- [FolderState 빌드와 패키지 검사](build.md)
+- [GitHub Pages 공개 범위와 검증](pages.md)
+- [상용 배포 품질 기준](quality.md)
+- [변경 이력](changelog.md) · [누적 검증 기록](verification.md)
+
+## 이전 기록
+
+- [2026-09-17 도구 다운로드·문서 통합](tools-release-20260917.md)
+- [2026-09-14 설치·실행 검증](tools-release-20260914.md)
+- [FolderState 0.1.0~0.1.1 화면 기록](../tools/folderstate/quick-guide.md)
+- [Excel RC9 게시·검증](../../tools/ExcelSmartListCompare/docs/RC9_APPROVED_RETEST_20260917.md)
+
+과거 기록은 당시 파일의 증거입니다. 현재 버전의 사용법이나 최신 시험 결과로 해석하지 않습니다. 초기 Excel 지시와 소스 압축본은 [원본 보존 폴더](../../tools/ExcelSmartListCompare/archive/README.md)에 있습니다.

diff --git a/docs/delivery/changelog.md b/docs/delivery/changelog.md
@@ -1,5 +1,23 @@
 # 변경 이력
 
+## FolderState 0.1.3 RC1 게시와 두 도구 안내 정리 · 2026-09-20
+
+- 사용성 개선 소스를 main에 반영하고 Windows CI의 엔진 47개·WPF 12개·MSI 검사 통과 산출물을 게시했습니다.
+- 홈페이지·README·FolderState 현재 화면과 설치 안내를 0.1.3 RC1로, Excel 공통 안내와 인계 문서를 이미 공개된 RC10으로 맞췄습니다.
+- 최초 Excel 지시·소스 ZIP은 원본 보존 폴더로 옮겼고, 현재 배포와 과거 검증 기록을 구분하는 안내를 추가했습니다.
+
+[게시 파일·정리 범위·문서 검증](releases-20260920.md)을 따릅니다.
+
+## FolderState 사용성 개선 0.1.3 소스 · 2026-09-19
+
+- 확인된 폴더에만 적용하며, 경로를 편집하면 이전 상태·설정·결과를 지웁니다.
+- 현재 상태와 대상, 성공·주의·실패를 구분하고 가능한 작업만 제공합니다.
+- 아이콘 저장 위치를 별도로 적용하며 상태와 상태 변경 시각은 유지합니다.
+- GUI 회귀 시험과 저장 위치 전환의 중단·동시 작업·복원 시험을 추가했습니다.
+
+[검증 결과와 배포 제한](folderstate-usability-20260919.md)을 따릅니다. 작성 당시 공개 설치 파일은 0.1.2 RC1이며, 0.1.3의 후속 게시 결과는 위 2026-09-20 기록을 따릅니다.
+
+
 ## 두 도구 다운로드와 통합 0.1.2 · 2026-09-17
 
 - 홈페이지·메뉴에 프로그램 받기를 추가하고 Excel 설치·사용 페이지를 공개 목록에 넣었습니다.

diff --git a/docs/index.md b/docs/index.md
@@ -44,10 +44,10 @@ hide:
 
 | 하고 싶은 일 | 프로그램과 설치 안내 |
 |---|---|
-| 폴더에 업무 진행 상태를 표시하고 싶어요 | **[FolderState 0.1.2 RC1 받기](tools/folderstate/installation.md)** — 폴더를 고르고 현재 상태를 누르세요. |
-| Excel의 두 목록에서 다른 값과 중복을 찾고 싶어요 | **[Excel 명단 비교 받기](tools/excel-list-compare/index.md)** — 첫 번째 목록을 담고 두 번째 목록을 선택해 비교하세요. |
+| 폴더에 업무 진행 상태를 표시하고 싶어요 | **[FolderState 0.1.3 RC1 받기](tools/folderstate/installation.md)** — 폴더를 고르고 현재 상태를 누르세요. |
+| Excel의 두 목록에서 다른 값과 중복을 찾고 싶어요 | **[Excel 명단 비교 RC10 받기](tools/excel-list-compare/index.md)** — 첫 번째 목록을 담고 두 번째 목록을 선택해 비교하세요. |
 
-두 프로그램 모두 시험용입니다. Excel 설치 파일은 이전 공개 RC7이며 이번 문구 교정은 아직 포함되지 않았습니다. 다운로드 전에 각 설치 안내에서 사용 환경과 알려진 문제를 확인하세요.
+FolderState 0.1.3 RC1은 폴더 확인과 아이콘 위치 적용을 분리합니다. Excel 명단 비교 RC10은 담은 목록 확인, 첫 목록 재사용과 네 가지 결과 시트를 제공합니다. 다운로드 전에 각 설치 안내에서 사용 환경과 제한을 확인하세요.
 
 </section>
 

diff --git a/tools/ExcelSmartListCompare/docs/RC9_APPROVED_RETEST_20260917.md b/tools/ExcelSmartListCompare/docs/RC9_APPROVED_RETEST_20260917.md
@@ -10,7 +10,7 @@
 
[1 lines of base64/hex data omitted]
 
-적용 근거는 [원래 Excel 검증 지시](../../../CODEX_EXCEL_E2E_TEST_PROMPT.md), [추가 도구 개발 기준](../../../docs/policies/tools.md), [문서 작성 규칙](../../../docs/policies/documentation.md), [제품 명세](../../../docs/tools/excel-list-compare/specification.md)와 [인수 요구사항](ACCEPTANCE_TESTS.md)이다. 이 기록은 개발·검증 자료이며 공개 사이트에 추가하지 않는다.
+적용 근거는 [원래 Excel 검증 지시](../archive/CODEX_EXCEL_E2E_TEST_PROMPT.md), [추가 도구 개발 기준](../../../docs/policies/tools.md), [문서 작성 규칙](../../../docs/policies/documentation.md), [제품 명세](../../../docs/tools/excel-list-compare/specification.md)와 [인수 요구사항](ACCEPTANCE_TESTS.md)이다. 이 기록은 개발·검증 자료이며 공개 사이트에 추가하지 않는다.
 
 ## 허용 범위와 원복 계약
 
